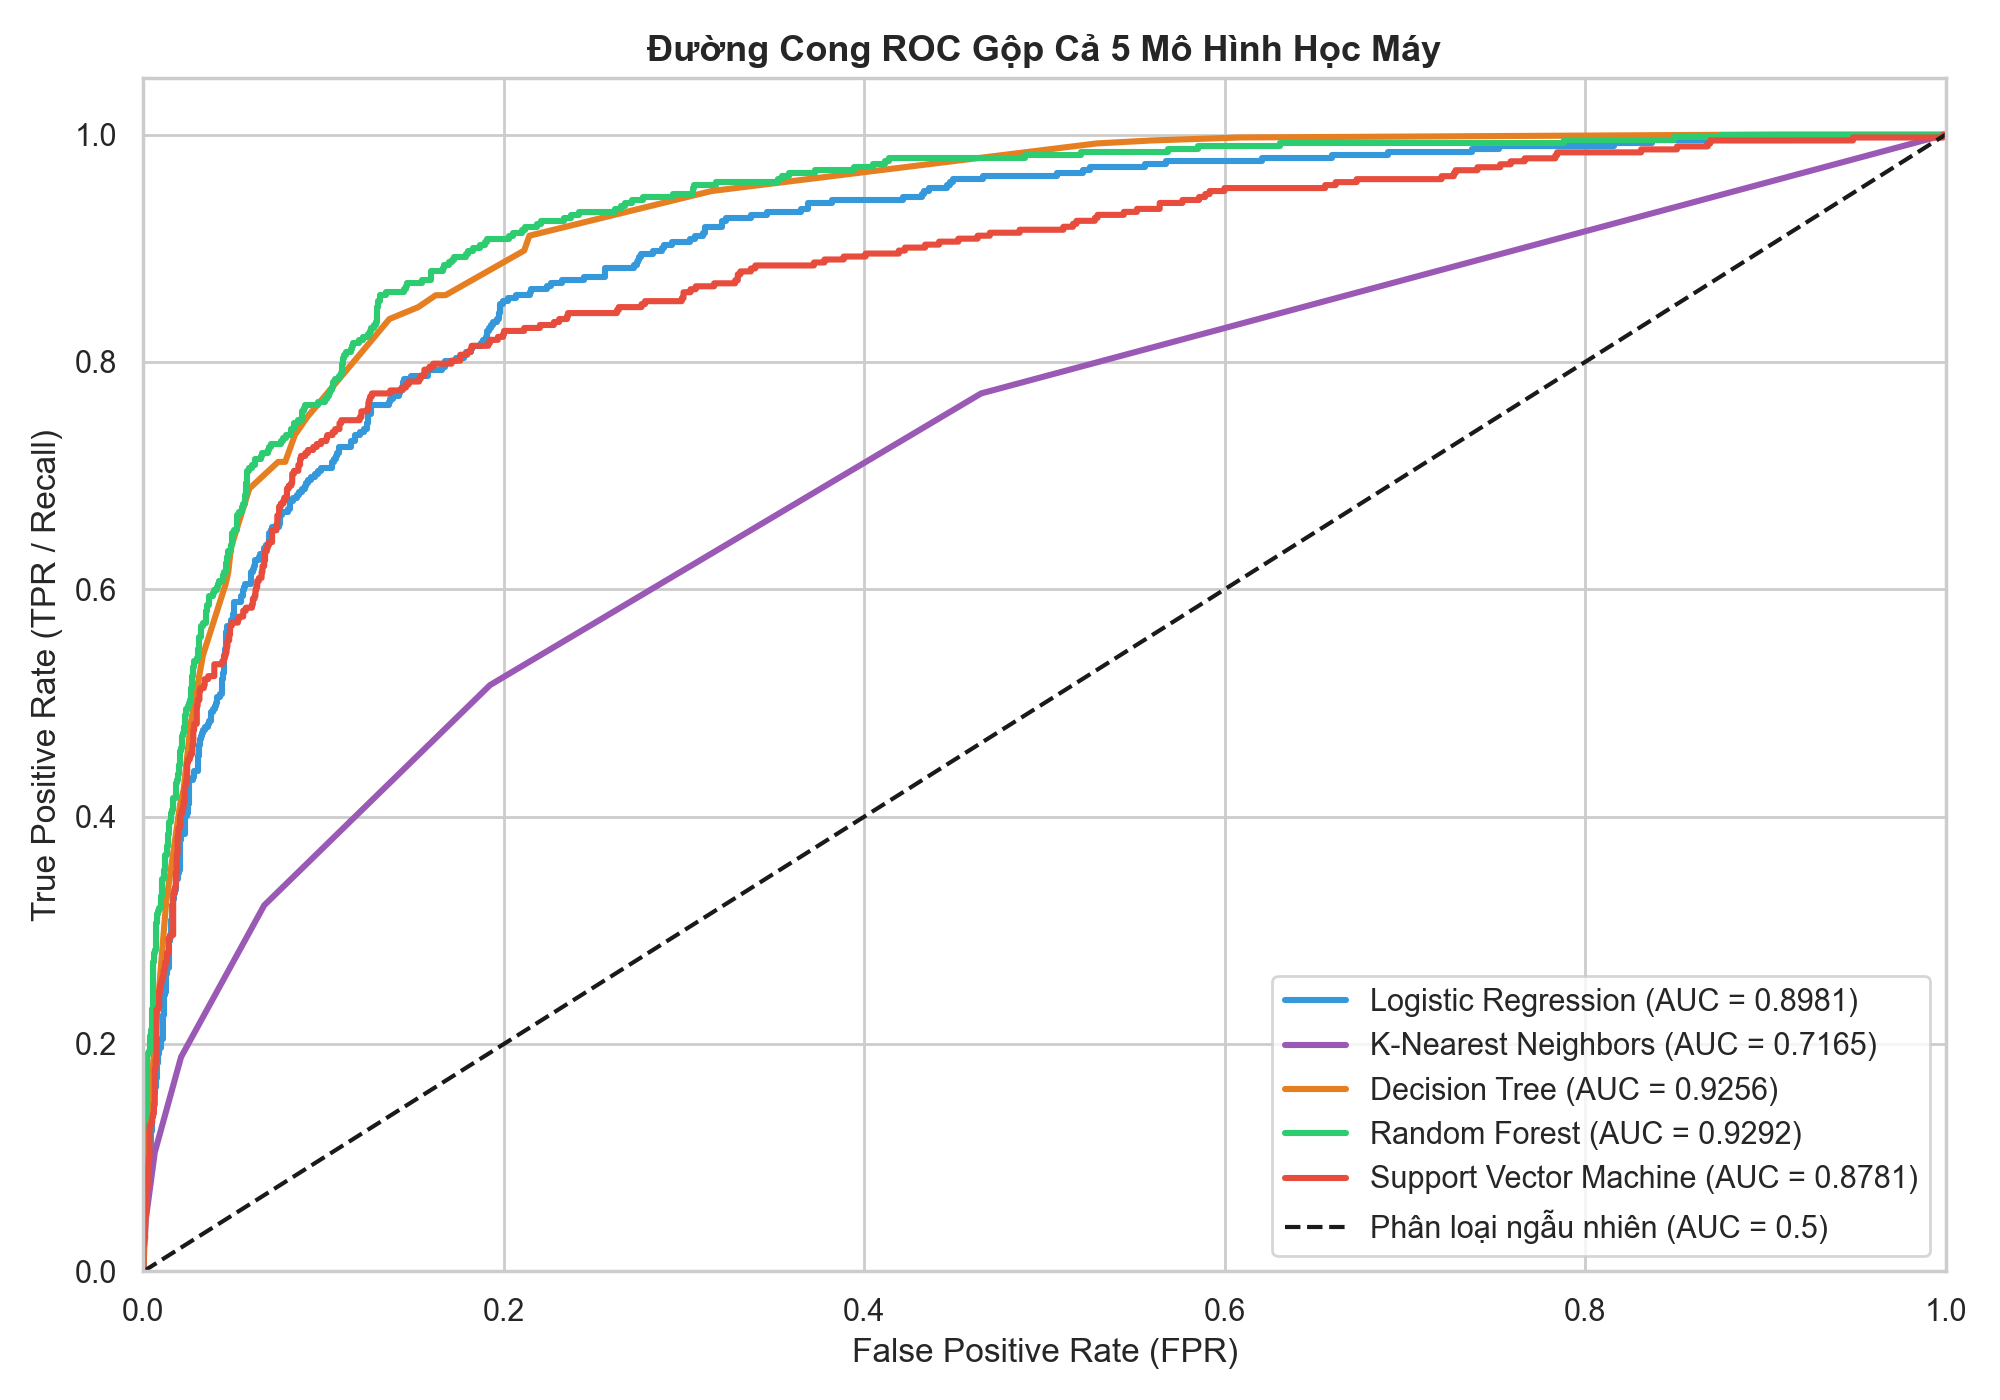
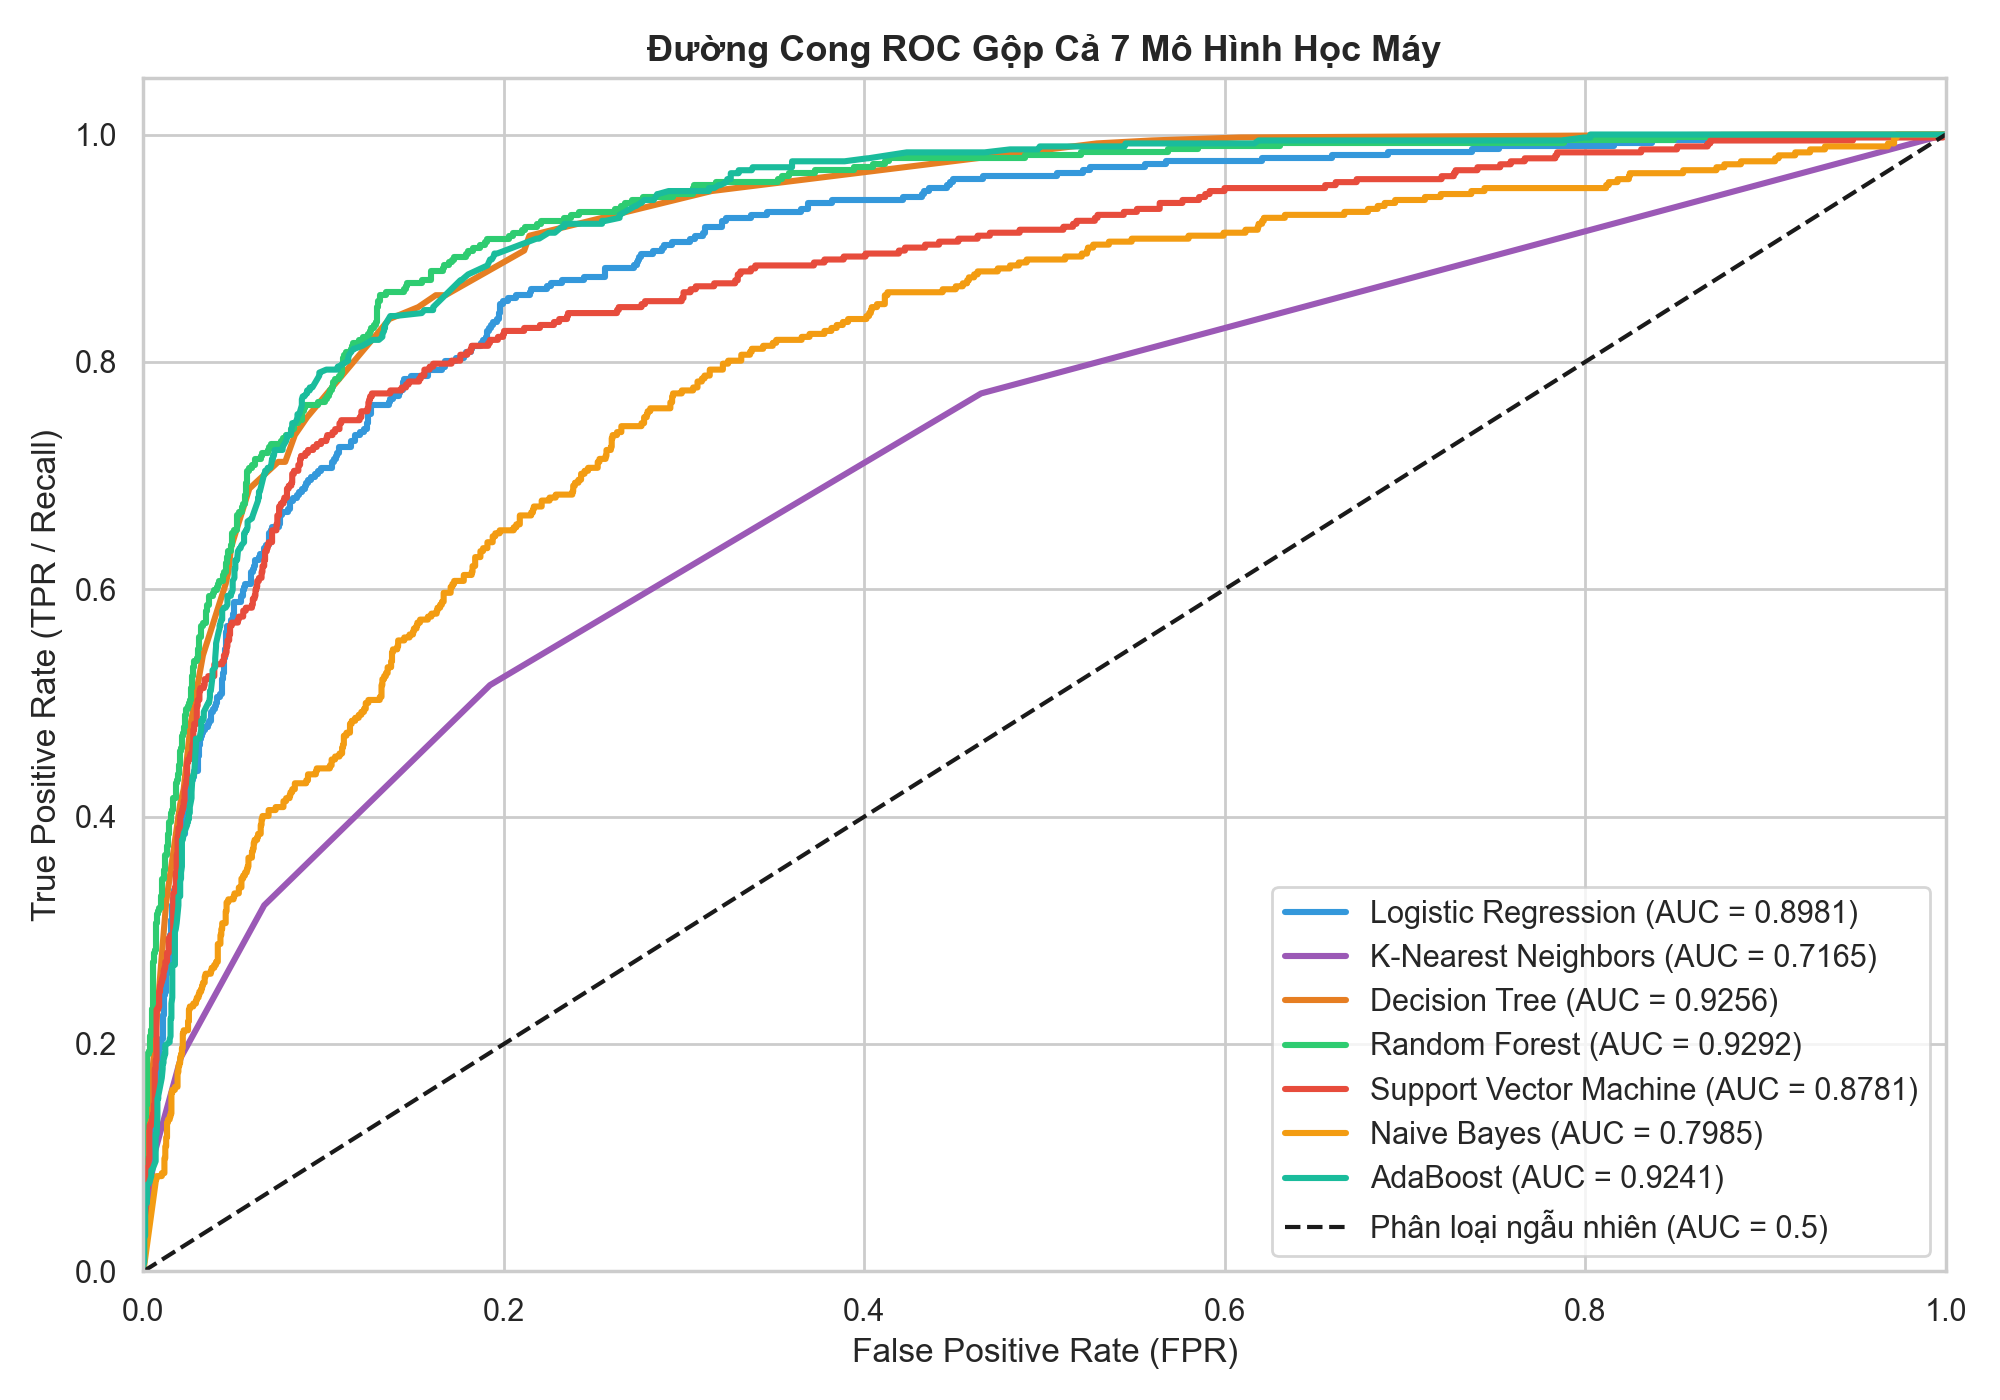
Cap nhat mo hinh va xuat bieu do danh gia

diff --git a/train_5_models.py b/train_5_models.py
@@ -1,17 +1,19 @@
 # -*- coding: utf-8 -*-
 """
-DỰ ÁN HỌC MÁY: XÂY DỰNG VÀ ĐÁNH GIÁ 5 MÔ HÌNH HỌC MÁY
+DỰ ÁN HỌC MÁY: XÂY DỰNG VÀ ĐÁNH GIÁ 7 MÔ HÌNH HỌC MÁY
 Dự đoán ý định mua hàng của khách truy cập (Online Shoppers Purchasing Intention)
 
 Quy trình chuẩn bao gồm:
 1. Đọc và khám phá dữ liệu (EDA)
 2. Tiền xử lý dữ liệu (Xử lý trùng lặp, One-Hot Encoding, Train/Test Split, Feature Scaling)
-3. Huấn luyện và đánh giá 5 mô hình máy học:
+3. Huấn luyện và đánh giá 7 mô hình máy học:
    - Logistic Regression
    - K-Nearest Neighbors (KNN)
    - Decision Tree
    - Random Forest
    - Support Vector Machine (SVM)
+   - Naive Bayes (Gaussian)
+   - AdaBoost (Adaptive Boosting)
 4. So sánh tổng hợp hiệu năng và lưu kết quả/biểu đồ
 """
 
@@ -51,8 +53,9 @@ from sklearn.metrics import (
 from sklearn.linear_model import LogisticRegression
 from sklearn.neighbors import KNeighborsClassifier
 from sklearn.tree import DecisionTreeClassifier, plot_tree
-from sklearn.ensemble import RandomForestClassifier
+from sklearn.ensemble import RandomForestClassifier, AdaBoostClassifier
 from sklearn.svm import SVC
+from sklearn.naive_bayes import GaussianNB
 
 # Tạo thư mục lưu biểu đồ
 OUTPUT_DIR = "output_plots"
@@ -64,7 +67,7 @@ plt.rcParams['font.size'] = 11
 
 def main():
     print("=" * 75)
-    print(" BẮT ĐẦU QUY TRÌNH HUẤN LUYỆN VÀ ĐÁNH GIÁ 5 MÔ HÌNH HỌC MÁY ")
+    print(" BẮT ĐẦU QUY TRÌNH HUẤN LUYỆN VÀ ĐÁNH GIÁ 7 MÔ HÌNH HỌC MÁY ")
     print("=" * 75)
 
     # -------------------------------------------------------------
@@ -144,9 +147,9 @@ def main():
     print("- Đã chuẩn hóa dữ liệu bằng StandardScaler (fit trên Train, transform trên Test).")
 
     # -------------------------------------------------------------
-    # BƯỚC 3: XÂY DỰNG & HUẤN LUYỆN 5 MÔ HÌNH HỌC MÁY
+    # BƯỚC 3: XÂY DỰNG & HUẤN LUYỆN 7 MÔ HÌNH HỌC MÁY
     # -------------------------------------------------------------
-    print("\n[BƯỚC 3] Khởi tạo và huấn luyện 5 mô hình học máy...")
+    print("\n[BƯỚC 3] Khởi tạo và huấn luyện 7 mô hình học máy...")
 
     models = {
         'Logistic Regression': {
@@ -173,6 +176,33 @@ def main():
             'instance': SVC(C=1.0, kernel='rbf', gamma='scale', probability=True, random_state=42),
             'use_scaled': True,
             'desc': 'Máy vector hỗ trợ với RBF Kernel phi tuyến'
+        },
+        # ===== MÔ HÌNH 6: NAIVE BAYES (GAUSSIAN) =====
+        # Lý thuyết: Dùng Định lý Bayes  P(Y|X) = P(X|Y) × P(Y) / P(X)
+        # "Naive" = giả định các đặc trưng ĐỘC LẬP với nhau
+        # "Gaussian" = giả định mỗi đặc trưng tuân theo phân phối chuẩn (Normal Distribution)
+        # var_smoothing: thêm một lượng nhỏ (1e-9) vào phương sai để tránh lỗi chia cho 0
+        'Naive Bayes': {
+            'instance': GaussianNB(var_smoothing=1e-9),
+            'use_scaled': False,  # Naive Bayes tự tính mean/variance cho từng đặc trưng, KHÔNG cần chuẩn hóa
+            'desc': 'Phân loại Bayes Gaussian với giả định đặc trưng độc lập'
+        },
+        # ===== MÔ HÌNH 7: ADABOOST (ADAPTIVE BOOSTING) =====
+        # Lý thuyết: Kết hợp nhiều mô hình YẾU (weak learner) thành mô hình MẠNH
+        # Mỗi vòng: train 1 Decision Stump → tìm mẫu SAI → TĂNG trọng số mẫu SAI
+        # → Vòng sau sẽ TẬP TRUNG hơn vào các mẫu khó phân loại
+        # estimator: Decision Stump (cây quyết định chỉ có 1 nút, max_depth=1)
+        # n_estimators=100: kết hợp 100 Decision Stump
+        # learning_rate=0.5: tốc độ học (nhỏ hơn = ổn định hơn, nhưng cần nhiều vòng hơn)
+        'AdaBoost': {
+            'instance': AdaBoostClassifier(
+                estimator=DecisionTreeClassifier(max_depth=1),  # Decision Stump (cây 1 nút)
+                n_estimators=100,       # Số lượng mô hình yếu
+                learning_rate=0.5,      # Tốc độ học
+                random_state=42         # Đảm bảo kết quả tái lập được
+            ),
+            'use_scaled': False,  # Tree-based → không cần chuẩn hóa dữ liệu
+            'desc': 'Ensemble Boosting kết hợp 100 Decision Stump'
         }
     }
 
@@ -241,13 +271,15 @@ def main():
     print(f"  -> Đã lưu biểu đồ: {OUTPUT_DIR}/04_rf_feature_importance.png")
 
     # Ma trận nhầm lẫn tổng hợp cho cả 5 mô hình
-    fig, axes = plt.subplots(1, 5, figsize=(22, 4))
+    fig, axes = plt.subplots(2, 4, figsize=(24, 8))  # 2 hàng × 4 cột = 8 ô (dùng 7, ẩn 1)
+    axes_flat = axes.flatten()  # Chuyển mảng 2D thành 1D để dễ duyệt bằng index
     for idx, (name, res) in enumerate(results.items()):
         cm = confusion_matrix(y_test, res['y_pred'])
-        sns.heatmap(cm, annot=True, fmt='d', cmap='Blues', ax=axes[idx], cbar=False,
+        sns.heatmap(cm, annot=True, fmt='d', cmap='Blues', ax=axes_flat[idx], cbar=False,
                     xticklabels=['Pred 0', 'Pred 1'], yticklabels=['True 0', 'True 1'])
-        axes[idx].set_title(f"{name}", fontsize=11, fontweight='bold')
-    plt.suptitle('So Sánh Ma Trận Nhầm Lẫn (Confusion Matrix) Của 5 Mô Hình', fontsize=14, fontweight='bold', y=1.05)
+        axes_flat[idx].set_title(f"{name}", fontsize=11, fontweight='bold')
+    axes_flat[-1].set_visible(False)  # Ẩn ô thứ 8 (chỉ có 7 mô hình, không cần ô cuối)
+    plt.suptitle('So Sánh Ma Trận Nhầm Lẫn (Confusion Matrix) Của 7 Mô Hình', fontsize=14, fontweight='bold', y=1.02)
     plt.tight_layout()
     plt.savefig(os.path.join(OUTPUT_DIR, '05_all_confusion_matrices.png'), dpi=200)
     plt.close()
@@ -255,7 +287,7 @@ def main():
 
     # Đường cong ROC gộp
     plt.figure(figsize=(10, 7))
-    colors = ['#3498DB', '#9B59B6', '#E67E22', '#2ECC71', '#E74C3C']
+    colors = ['#3498DB', '#9B59B6', '#E67E22', '#2ECC71', '#E74C3C', '#F39C12', '#1ABC9C']  # 7 màu cho 7 mô hình
     for (name, res), color in zip(results.items(), colors):
         if res['y_prob'] is not None:
             fpr, tpr, _ = roc_curve(y_test, res['y_prob'])
@@ -265,7 +297,7 @@ def main():
     plt.ylim([0.0, 1.05])
     plt.xlabel('False Positive Rate (FPR)')
     plt.ylabel('True Positive Rate (TPR / Recall)')
-    plt.title('Đường Cong ROC Gộp Cả 5 Mô Hình Học Máy', fontsize=13, fontweight='bold')
+    plt.title('Đường Cong ROC Gộp Cả 7 Mô Hình Học Máy', fontsize=13, fontweight='bold')
     plt.legend(loc='lower right')
     plt.tight_layout()
     plt.savefig(os.path.join(OUTPUT_DIR, '06_combined_roc_curves.png'), dpi=200)
@@ -276,7 +308,7 @@ def main():
     # BƯỚC 5: TỔNG HỢP VÀ KẾT LUẬN
     # -------------------------------------------------------------
     print("\n" + "=" * 75)
-    print(" BẢNG TỔNG HỢP SO SÁNH HIỆU NĂNG 5 MÔ HÌNH HỌC MÁY ")
+    print(" BẢNG TỔNG HỢP SO SÁNH HIỆU NĂNG 7 MÔ HÌNH HỌC MÁY ")
     print("=" * 75)
 
     summary_list = []
@@ -302,9 +334,10 @@ def main():
     # Vẽ biểu đồ so sánh các chỉ số
     plot_df = summary_df.melt(id_vars='Model', value_vars=['Accuracy (%)', 'Precision (%)', 'Recall (%)', 'F1-Score (%)'],
                               var_name='Metric', value_name='Score (%)')
-    plt.figure(figsize=(14, 6))
+    plt.figure(figsize=(16, 7))  # Tăng kích thước để chứa 7 mô hình
     chart = sns.barplot(x='Model', y='Score (%)', hue='Metric', data=plot_df, palette='Spectral')
-    plt.title('So Sánh Các Chỉ Số Hiệu Năng Giữa 5 Mô Hình Máy Học', fontsize=14, fontweight='bold')
+    plt.title('So Sánh Các Chỉ Số Hiệu Năng Giữa 7 Mô Hình Máy Học', fontsize=14, fontweight='bold')
+    plt.xticks(rotation=15, ha='right')  # Xoay nhãn trục X để không bị chồng chéo
     plt.ylabel('Điểm số (%)')
     plt.ylim(0, 105)
     plt.legend(title='Chỉ số', bbox_to_anchor=(1.02, 1), loc='upper left')
